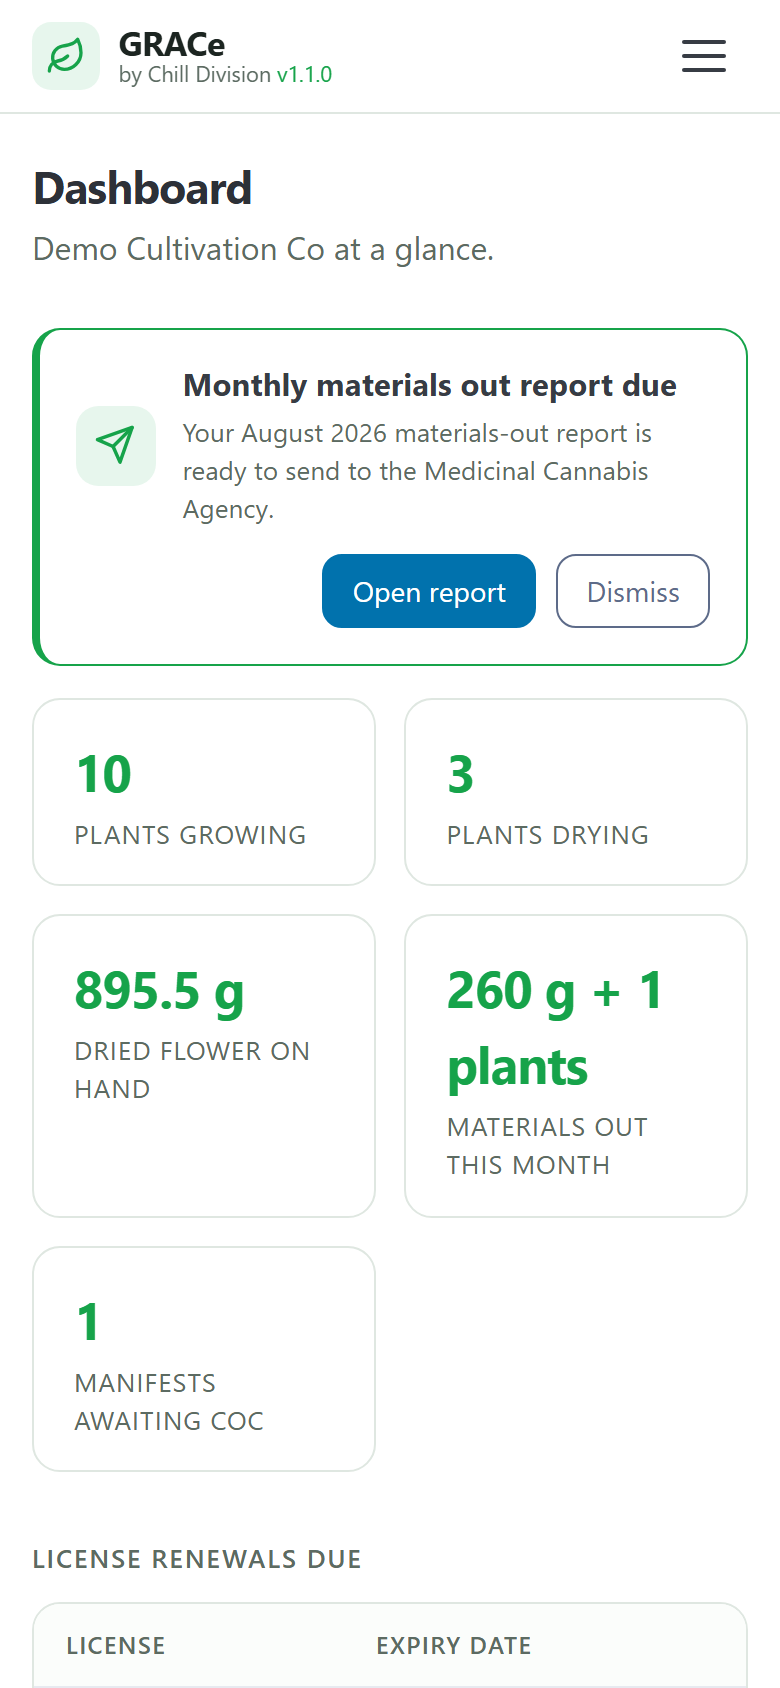
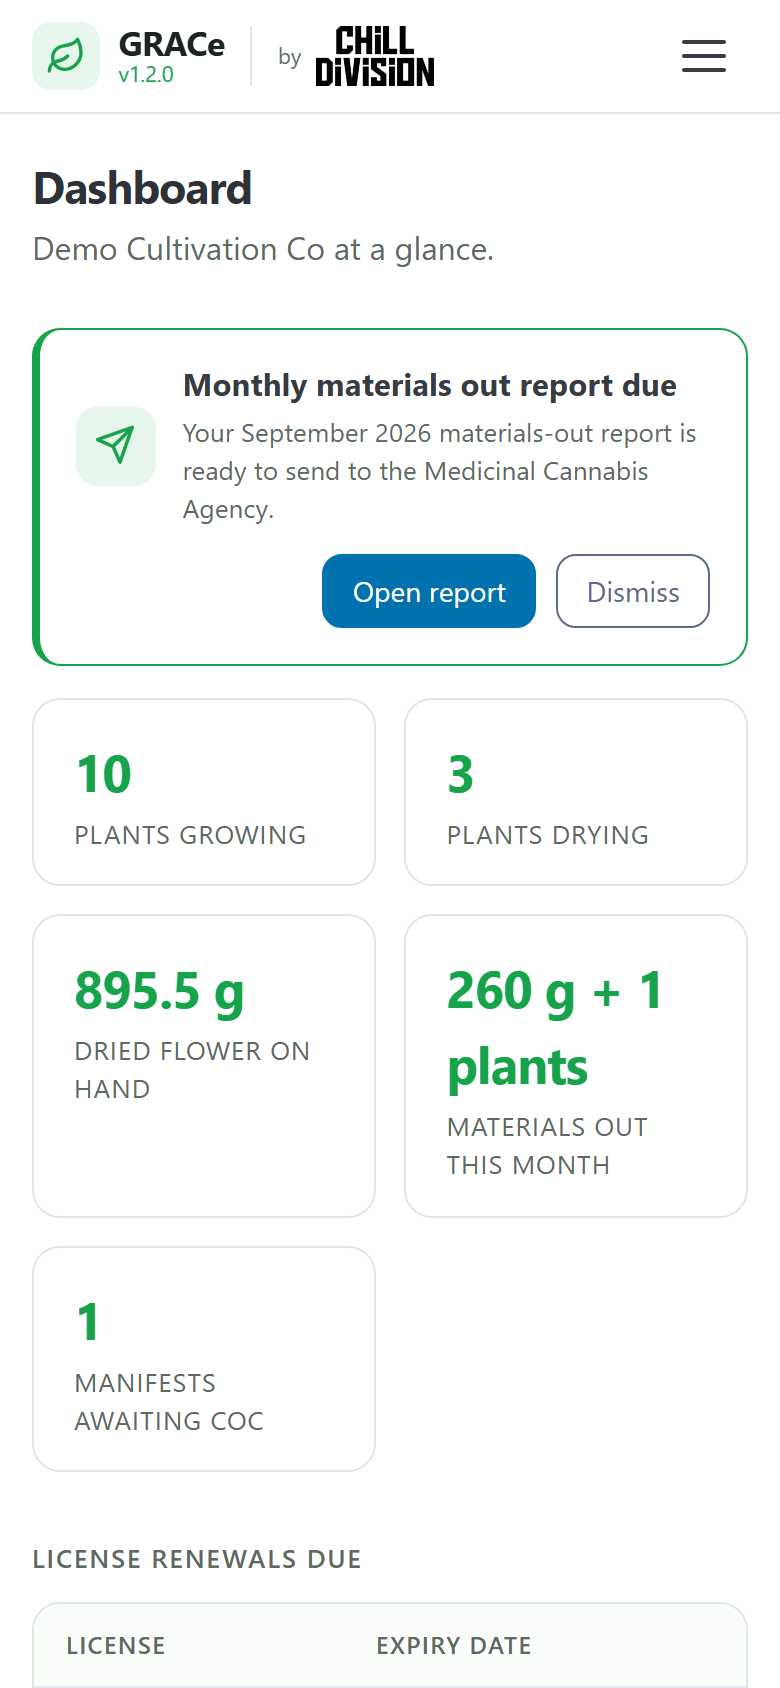
Release 1.2.0: report reminders, plant manifests marked as sent, and a stocktake fix (#46)
Bumps the version to 1.2.0 (with tests/bump_version.php) and adds the
1.2.0 changelog entry Josiah reviewed: report reminders on a phone (#42),
marking a plant manifest's plants as sent (#41), Harvested - Destroyed
counting as harvested on the annual stocktake (#39), the Dashboard's plant
cards opening their list (#40) and Quick select's drying-first order. 1.1
is still recent, so its notes are repeated underneath under "... in 1.1"
headings; the 1.1.1 entry itself is unchanged. The logo (#38) and the
versioned scripts (#45) ship without a changelog line.

AGENTS.md: repeat the previous release's notes while it's still recent (a
few weeks), not only when it was out briefly.

All 28 guide screenshots are retaken: every one shows the top menu, which
now has the Chill Division logo and v1.2.0.

Changed region(s): [[0.3077, 0.2464, 0.8923, 0.2773], [0.1538, 0.0, 0.5538, 0.0616]]

diff --git a/grace_addon/files/general/www/public/nav.php b/grace_addon/files/general/www/public/nav.php
@@ -27,7 +27,7 @@ $navSections = [
                 </span>
                 <span class="nav-brand-text">
                     <strong>GRACe</strong>
-                    <span class="nav-brand-sub"><small>v1.1.1</small></span>
+                    <span class="nav-brand-sub"><small>v1.2.0</small></span>
                 </span>
                 <span class="nav-brand-maker">
                     <span class="nav-brand-by">by</span>

diff --git a/grace_addon/files/general/www/public/header.php b/grace_addon/files/general/www/public/header.php
@@ -7,7 +7,7 @@
  *   $useJquery  - set true on pages that use the jQuery document manager
  */
 if (!defined('GRACE_ASSET_VERSION')) {
-    define('GRACE_ASSET_VERSION', '1.1.1');
+    define('GRACE_ASSET_VERSION', '1.2.0');
 }
 $pageTitle = $pageTitle ?? 'GRACe';
 ?>

diff --git a/grace_addon/CHANGELOG.md b/grace_addon/CHANGELOG.md
@@ -1,3 +1,49 @@
+## [1.2.0] - 2026-10-11
+Report reminders on your phone, plants marked as sent straight from a manifest, and a fix to the annual stocktake. 1.1 is still recent, so its changes are listed underneath too.
+
+### What's new
+- **Report reminders on your phone.** Administration → Report reminders: switch them on, choose your phone (it needs the Home Assistant app) and send a test. From 9am on the first weekday of each month, if a report is due, GRACe sends you one notification.
+- **Mark plants as sent straight from a manifest.** On a manifest for plants going to another company, leave "Then mark these plants as sent" on. Harvest / Destroy / Send opens with those plants ticked and the company chosen, so you check them, confirm, and you're back at the manifest.
+
+### Important fixes
+- **Harvested plants count as harvested on the annual stocktake.** Plants marked Harvested - Destroyed used to be counted under Destroyed, which left the Harvested column at 0. They count as Harvested now. The totals and closing stock don't change, but if you open an older year's stocktake again, those plants move columns.
+
+### Changes
+- "Plants growing" and "Plants drying" on the Dashboard open a list of just those plants.
+- Quick select on Harvest / Destroy / Send can now start with the drying plants.
+- GRACe can now send notifications through Home Assistant. It only does if you switch report reminders on.
+
+### What's new in 1.1
+- **Add a genetics or a company without leaving the page.** Missing from the list? Choose "+ Add new genetics…" or "+ Add new company…" at the bottom of it. It's added and selected straight away, and nothing you've already typed is lost. Works on Receive plants, Record dry weight change, Harvest / Destroy / Send and Generate Shipping Manifest.
+- **See your stock while you enter.** Pick a genetics and GRACe shows how many are growing, or how much dried flower you have and what's left after this entry.
+- **Check before you save.** Receive plants and Record dry weight change now show a summary to confirm first, like Harvest / Destroy / Send already did. The ledger can't be edited afterwards, so this is your chance to catch a typo.
+- **Catch the extra zero.** Anything bigger than usual needs an extra tick before it's saved. You set what "big" means in Administration → Entry warning limits. It starts at 100 plants and 5,000 g, and we suggest about half of what one of your flower rooms holds.
+- **Recent entries.** Your last 10 entries are listed under each form, so you can check what you just did and spot anything entered twice.
+- **Clear confirmations.** After saving, GRACe tells you exactly what was recorded, and how many plants are now growing or how much flower is left.
+- **Early license renewals.** A license can now be uploaded with an expiry date up to 15 months away, so a renewal issued up to 3 months early goes straight in.
+
+### Important fixes in 1.1
+- **Last month's report shows the right month.** On the 29th, 30th and 31st it used to show this month's figures under last month's heading, and "Draft this in an email" would have sent them.
+- **Times are now NZ time.** GRACe used to save times in UTC, 12 or 13 hours behind NZ, so anything recorded before about 1pm on the 1st of a month counted towards the month before. Updating corrects your older entries too. A few may move into the month they really happened in, so an older monthly report you open again can differ slightly from the one you sent.
+- **Current Plants now includes drying plants.** They were left out before, even though they're still on your site and your annual stocktake counts them. Each genetics now shows growing plus drying.
+- **Flower can't go below zero.** Record dry weight change won't subtract more flower than you have on record. Shipping manifests already worked this way.
+- **Plants can't be processed twice.** If some plants were already processed, for example in another tab or on another device, Harvest / Destroy / Send changes nothing and shows you the current list, so old entries can't be overwritten.
+- **Company names with apostrophes or quotes**, like Joe's Farm, are saved and shown properly, including in Agency emails. Names saved by older versions are repaired automatically.
+
+### Changes in 1.1
+- Plant counts are whole numbers, and one entry can add up to 1,000 plants. Split anything bigger into a few entries.
+- Weights are grams to one decimal place, like 612.5 g.
+- Adding a genetics spots near-duplicates, so the same name typed with different capitals or extra spaces isn't added twice.
+- On shipping manifests, an external company is no longer picked for you. Choose it from the list.
+- The unused Breeder and Genetic Lineage fields are gone. Anything you had filled in is kept in your records.
+- The user guide now explains setting up Home Assistant backups, which are your real backup. "Download backup" is only for an extra copy, for example for an auditor.
+- The user guide also explains how to record a sample cut from a plant, and that drying plants stay in stock until you send or destroy them.
+
+### Minor bug fixes and reliability improvements in 1.1
+- A double tap can't save an entry twice, and plants are received all at once or not at all.
+- Messages about problems stay on screen until you've read them, and forms keep what you typed.
+- Clearer wording, like "Marked 5 plants as sent to …" on Harvest / Destroy / Send, plus other small fixes.
+
 ## [1.1.1] - 2026-09-25
 Quicker data entry, more safety nets, and some important report fixes. 1.1.0 was only out for a day, so everything it brought is listed here too.
 

diff --git a/AGENTS.md b/AGENTS.md
@@ -142,9 +142,11 @@ and layout:
 - What's new shows about the first 10 lines before "Show more…", so put
   what matters most to growers first.
 - What's new only shows the newest entry, so anyone who skips a version
-  never sees that version's notes. When a release follows one that was only
-  out briefly, bring the earlier entry's points into the new one and leave
-  the earlier entry as it was (1.1.1 does this for 1.1.0).
+  never sees that version's notes. While the previous release is still
+  recent (a few weeks), repeat its points underneath the new ones, under
+  headings like `### What's new in 1.1`, and leave the earlier entry as it
+  was (1.2.0 does this for 1.1). 1.1.1 folded 1.1.0's points in among its
+  own instead, because 1.1.0 was only out for a day.
 - Write for growers: what changed for them, not how. No file names,
   functions or tables. Use neutral examples ("Joe's Farm"), never strain
   names or real customer data.
